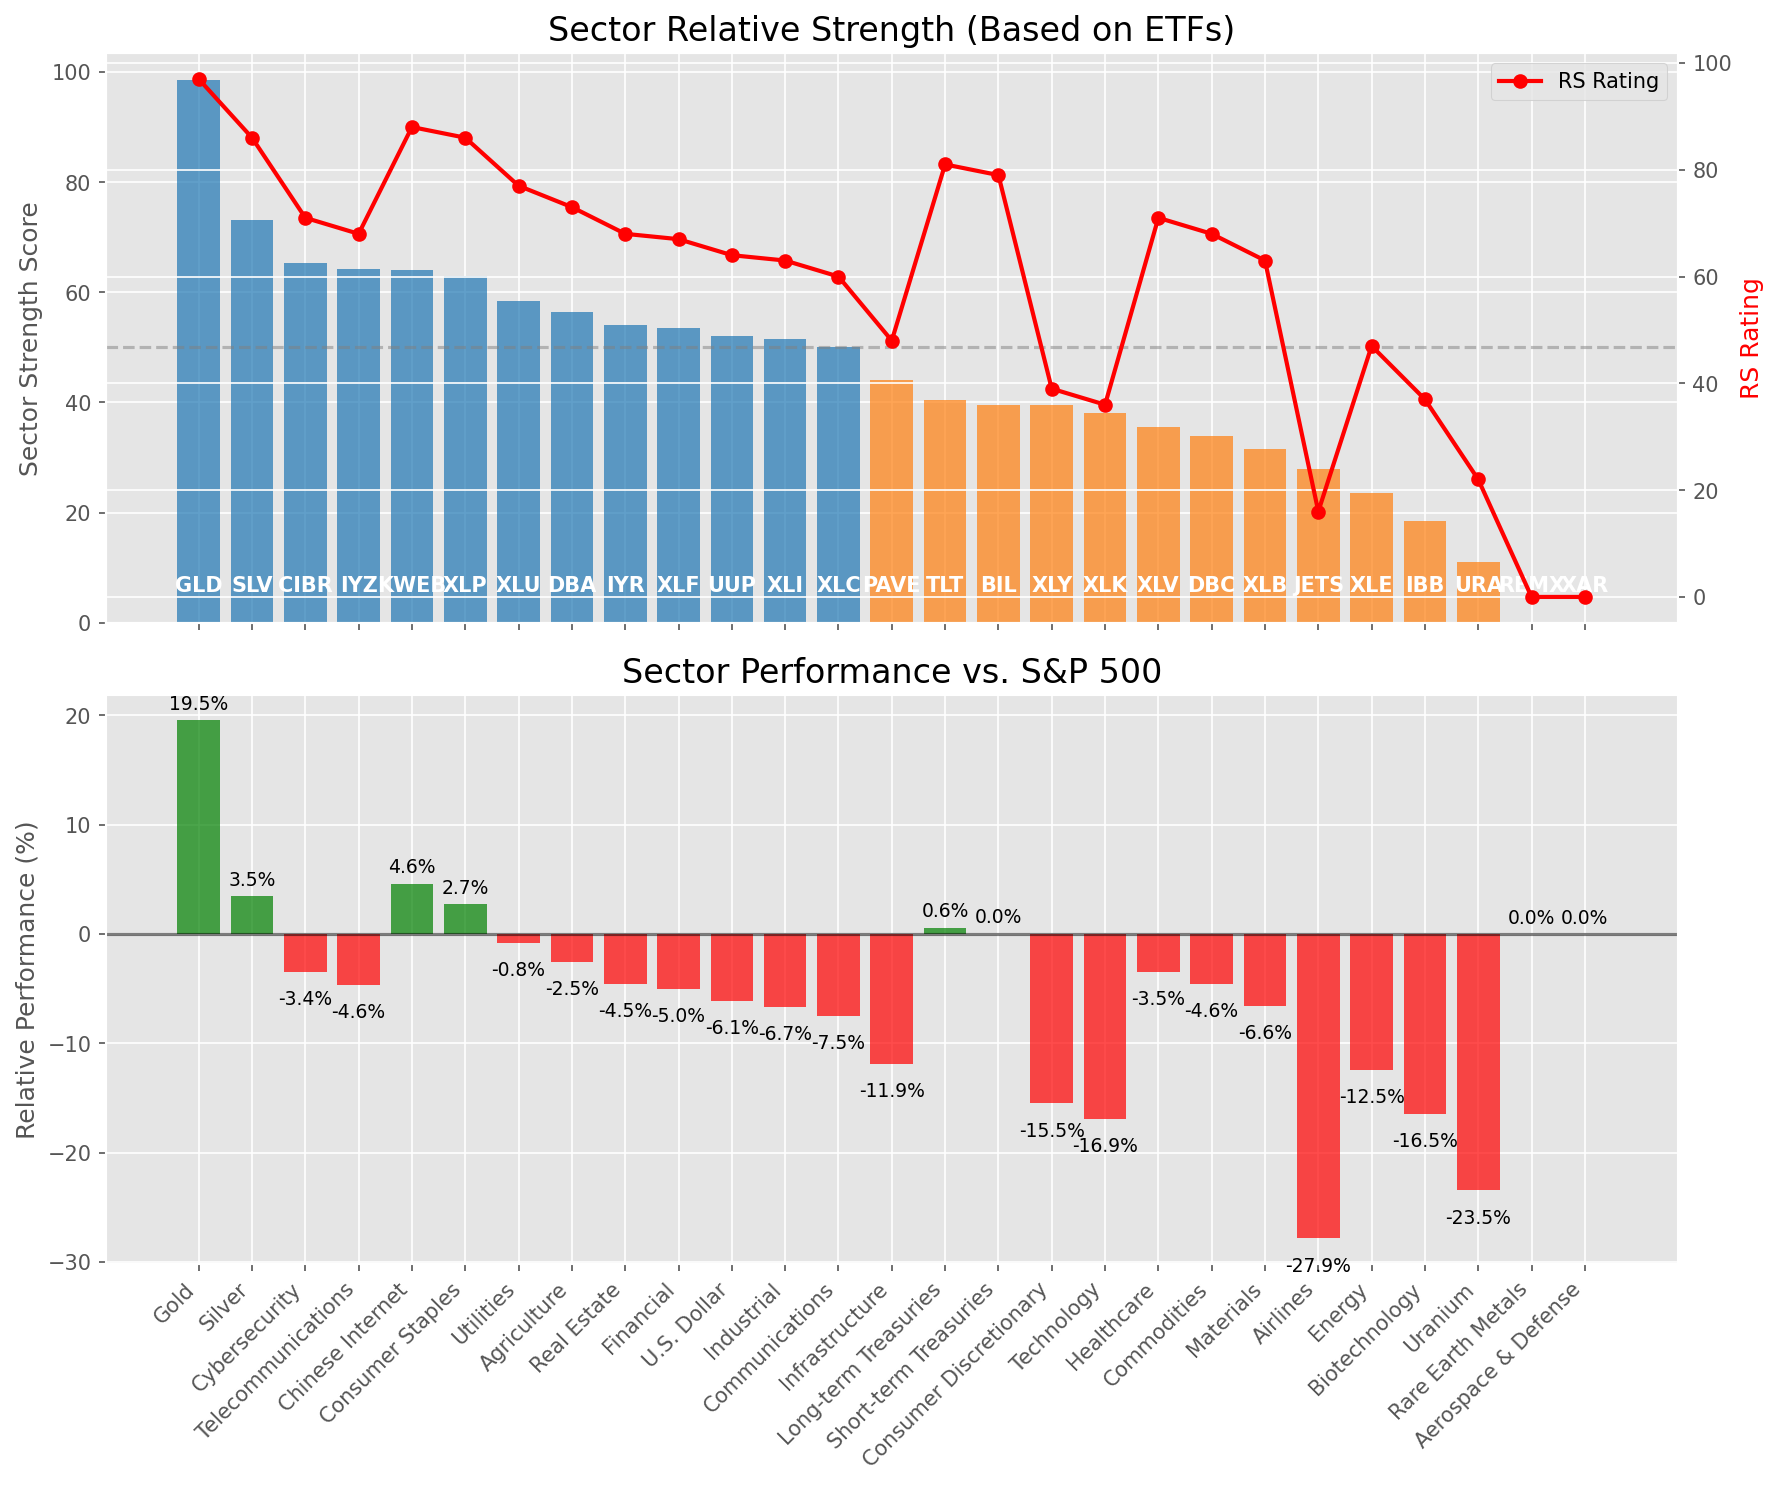
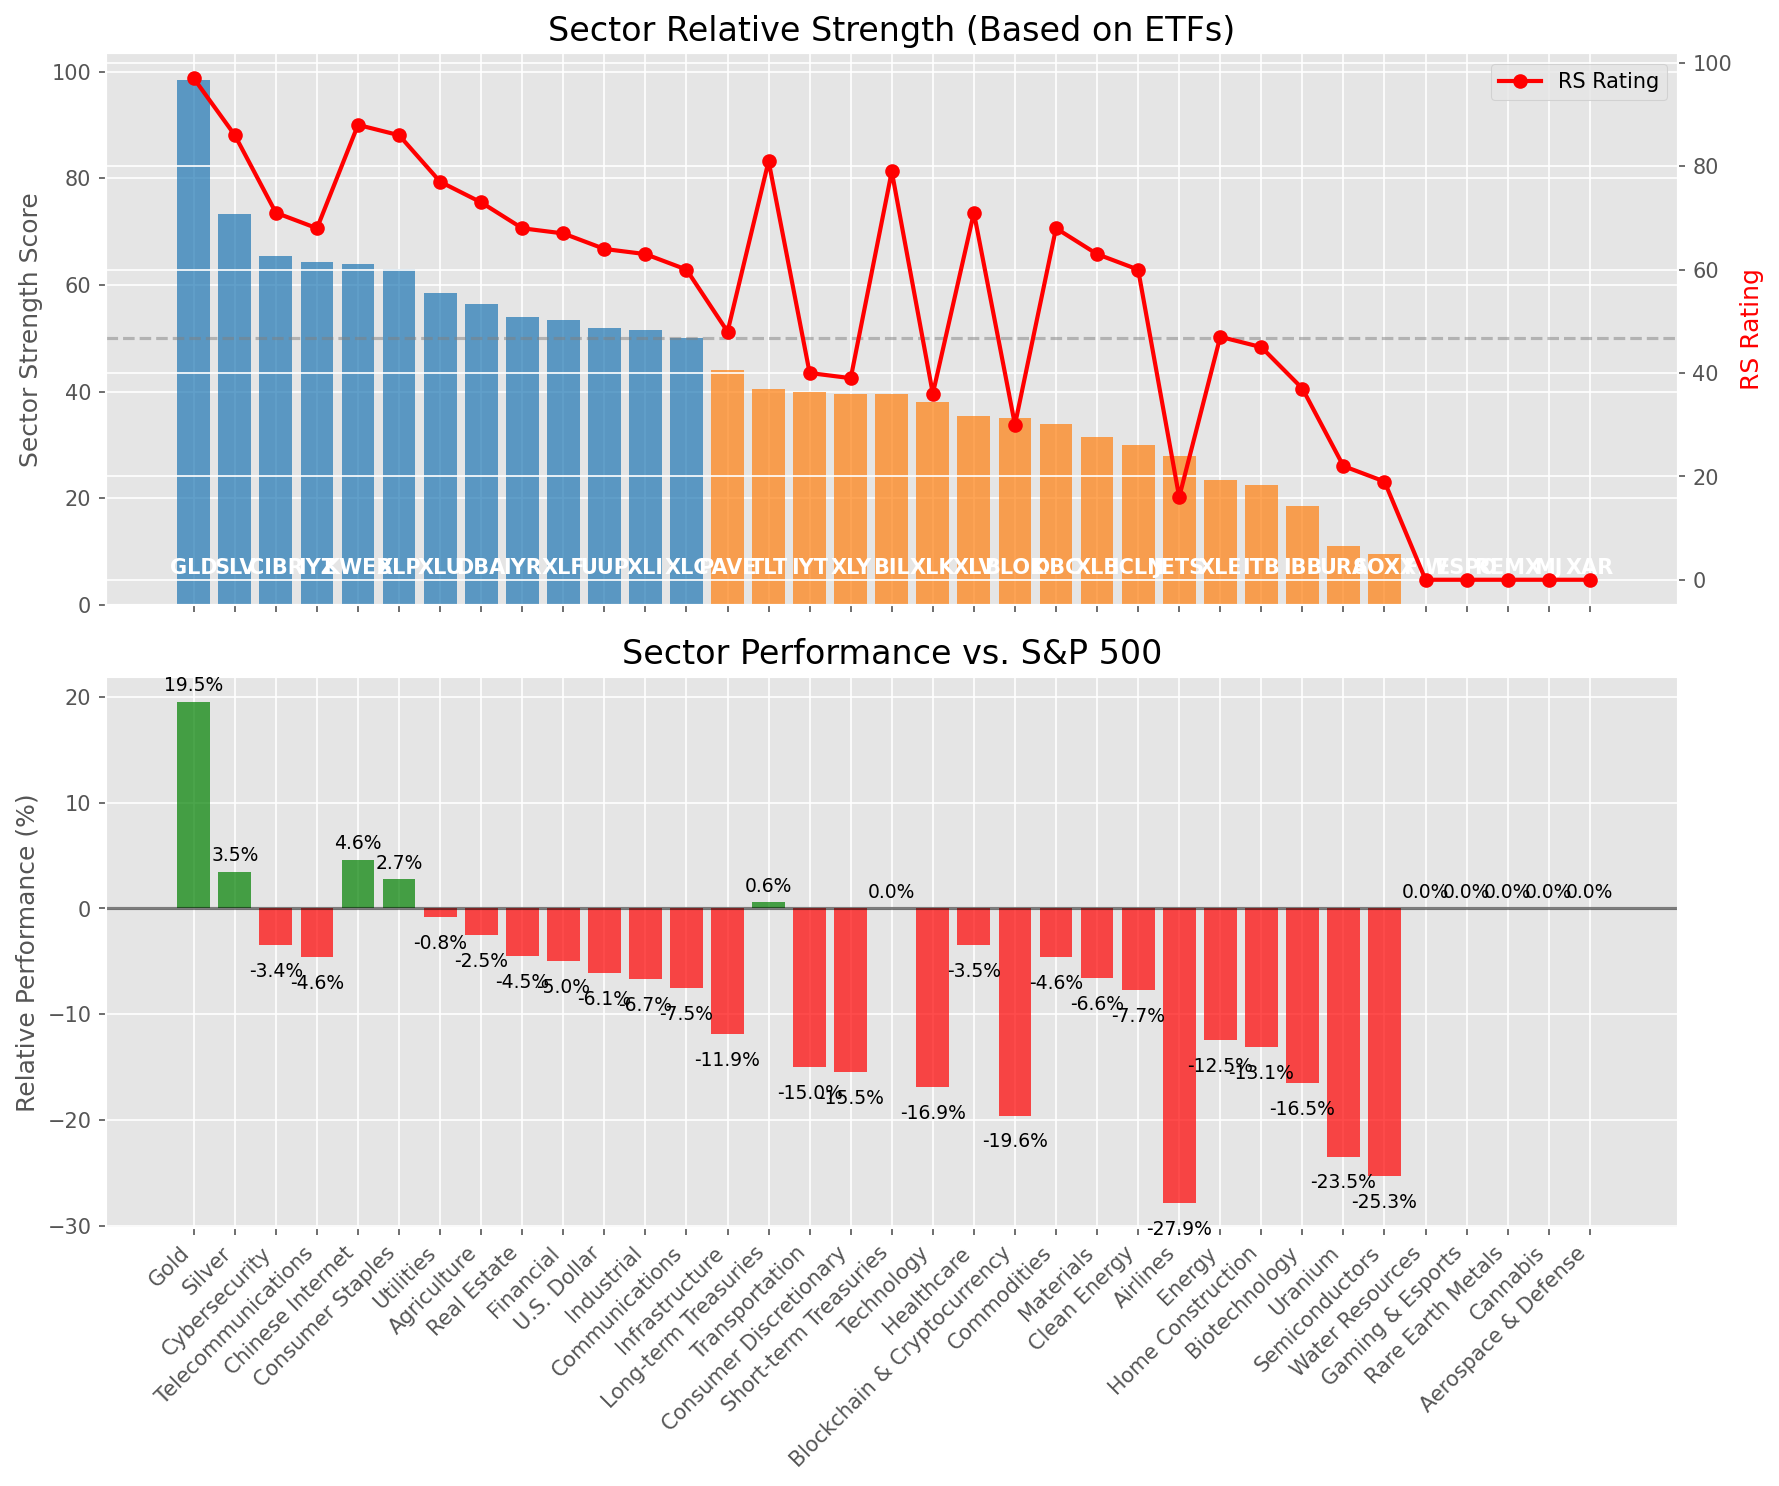
Add market report for 2025-04-11

diff --git a/oneil_relative_strength_report_2025-04-11.md b/oneil_relative_strength_report_2025-04-11.md
@@ -64,17 +64,25 @@ Based on William O'Neil's Relative Strength Methodology
 | [XLC](https://www.tradingview.com/chart/?symbol=XLC) | 50.0 | 60.0 | -7.50% | 10d ✗, 50d ✗, 200d ✗ | ↗ | Communications |
 | [PAVE](https://www.tradingview.com/chart/?symbol=PAVE) | 44.0 | 48.0 | -11.87% | 10d ✗, 50d ✗, 200d ✗ | ↗ | Infrastructure |
 | [TLT](https://www.tradingview.com/chart/?symbol=TLT) | 40.5 | 81.0 | 0.58% | 10d ✗, 50d ✗, 200d ✗ | ↘ | Long-term Treasuries |
-| [BIL](https://www.tradingview.com/chart/?symbol=BIL) | 39.5 | 79.0 | 0.03% | 10d ✗, 50d ✗, 200d ✗ | ↘ | Short-term Treasuries |
+| [IYT](https://www.tradingview.com/chart/?symbol=IYT) | 40.0 | 40.0 | -15.05% | 10d ✗, 50d ✗, 200d ✗ | ↗ | Transportation |
 | [XLY](https://www.tradingview.com/chart/?symbol=XLY) | 39.5 | 39.0 | -15.50% | 10d ✗, 50d ✗, 200d ✗ | ↗ | Consumer Discretionary |
+| [BIL](https://www.tradingview.com/chart/?symbol=BIL) | 39.5 | 79.0 | 0.03% | 10d ✗, 50d ✗, 200d ✗ | ↘ | Short-term Treasuries |
 | [XLK](https://www.tradingview.com/chart/?symbol=XLK) | 38.0 | 36.0 | -16.92% | 10d ✗, 50d ✗, 200d ✗ | ↗ | Technology |
 | [XLV](https://www.tradingview.com/chart/?symbol=XLV) | 35.5 | 71.0 | -3.45% | 10d ✗, 50d ✗, 200d ✗ | ↘ | Healthcare |
+| [BLOK](https://www.tradingview.com/chart/?symbol=BLOK) | 35.0 | 30.0 | -19.59% | 10d ✗, 50d ✗, 200d ✗ | ↗ | Blockchain & Cryptocurrency |
 | [DBC](https://www.tradingview.com/chart/?symbol=DBC) | 34.0 | 68.0 | -4.58% | 10d ✗, 50d ✗, 200d ✗ | ↘ | Commodities |
 | [XLB](https://www.tradingview.com/chart/?symbol=XLB) | 31.5 | 63.0 | -6.59% | 10d ✗, 50d ✗, 200d ✗ | ↘ | Materials |
+| [ICLN](https://www.tradingview.com/chart/?symbol=ICLN) | 30.0 | 60.0 | -7.70% | 10d ✗, 50d ✗, 200d ✗ | ↘ | Clean Energy |
 | [JETS](https://www.tradingview.com/chart/?symbol=JETS) | 28.0 | 16.0 | -27.86% | 10d ✗, 50d ✗, 200d ✗ | ↗ | Airlines |
 | [XLE](https://www.tradingview.com/chart/?symbol=XLE) | 23.5 | 47.0 | -12.46% | 10d ✗, 50d ✗, 200d ✗ | ↘ | Energy |
+| [ITB](https://www.tradingview.com/chart/?symbol=ITB) | 22.5 | 45.0 | -13.08% | 10d ✗, 50d ✗, 200d ✗ | ↘ | Home Construction |
 | [IBB](https://www.tradingview.com/chart/?symbol=IBB) | 18.5 | 37.0 | -16.48% | 10d ✗, 50d ✗, 200d ✗ | ↘ | Biotechnology |
 | [URA](https://www.tradingview.com/chart/?symbol=URA) | 11.0 | 22.0 | -23.47% | 10d ✗, 50d ✗, 200d ✗ | ↘ | Uranium |
+| [SOXX](https://www.tradingview.com/chart/?symbol=SOXX) | 9.5 | 19.0 | -25.32% | 10d ✗, 50d ✗, 200d ✗ | ↘ | Semiconductors |
+| [FIW](https://www.tradingview.com/chart/?symbol=FIW) | 0.0 | 0.0 | 0.00% | 10d ✗, 50d ✗, 200d ✗ | ↘ | Water Resources |
+| [ESPO](https://www.tradingview.com/chart/?symbol=ESPO) | 0.0 | 0.0 | 0.00% | 10d ✗, 50d ✗, 200d ✗ | ↘ | Gaming & Esports |
 | [REMX](https://www.tradingview.com/chart/?symbol=REMX) | 0.0 | 0.0 | 0.00% | 10d ✗, 50d ✗, 200d ✗ | ↘ | Rare Earth Metals |
+| [MJ](https://www.tradingview.com/chart/?symbol=MJ) | 0.0 | 0.0 | 0.00% | 10d ✗, 50d ✗, 200d ✗ | ↘ | Cannabis |
 | [XAR](https://www.tradingview.com/chart/?symbol=XAR) | 0.0 | 0.0 | 0.00% | 10d ✗, 50d ✗, 200d ✗ | ↘ | Aerospace & Defense |
 
 ### **Sector ETF Performance Interpretation**
@@ -106,35 +114,35 @@ The following 44 stocks show exceptional relative strength:
 | 100 | 100 | $131.04 | [Chart](https://www.tradingview.com/chart/?symbol=UGL) | ProShares Ultra Gold | UGL |
 | 100 | 100 | $27.97 | [Chart](https://www.tradingview.com/chart/?symbol=AGI) | Alamos Gold Inc. Class A Common Shares | AGI |
 | 99 | 100 | $142.99 | [Chart](https://www.tradingview.com/chart/?symbol=PLMR) | Palomar Holdings, Inc. Common stock | PLMR |
-| 99 | 100 | $117.30 | [Chart](https://www.tradingview.com/chart/?symbol=BJ) | BJs Wholesale Club Holdings, Inc. Common Stock | BJ |
-| 99 | 100 | $170.97 | [Chart](https://www.tradingview.com/chart/?symbol=RGLD) | Royal Gold Inc | RGLD |
-| 99 | 100 | $15.49 | [Chart](https://www.tradingview.com/chart/?symbol=EZPW) | Ezcorp Inc | EZPW |
-| 99 | 100 | $77.90 | [Chart](https://www.tradingview.com/chart/?symbol=WPM) | Wheaton Precious Metals Corp. Common Stock | WPM |
-| 99 | 100 | $18.49 | [Chart](https://www.tradingview.com/chart/?symbol=SWI) | SolarWinds Corporation Common Stock | SWI |
 | 99 | 100 | $58.23 | [Chart](https://www.tradingview.com/chart/?symbol=GDXJ) | VanEck Junior Gold Miners ETF | GDXJ |
+| 99 | 100 | $170.97 | [Chart](https://www.tradingview.com/chart/?symbol=RGLD) | Royal Gold Inc | RGLD |
+| 99 | 100 | $18.49 | [Chart](https://www.tradingview.com/chart/?symbol=SWI) | SolarWinds Corporation Common Stock | SWI |
+| 99 | 100 | $117.30 | [Chart](https://www.tradingview.com/chart/?symbol=BJ) | BJs Wholesale Club Holdings, Inc. Common Stock | BJ |
+| 99 | 100 | $77.90 | [Chart](https://www.tradingview.com/chart/?symbol=WPM) | Wheaton Precious Metals Corp. Common Stock | WPM |
+| 99 | 100 | $15.49 | [Chart](https://www.tradingview.com/chart/?symbol=EZPW) | Ezcorp Inc | EZPW |
 | 98 | 100 | $22.02 | [Chart](https://www.tradingview.com/chart/?symbol=SRAD) | Sportradar Group AG Class A Ordinary Shares | SRAD |
-| 97 | 100 | $21.81 | [Chart](https://www.tradingview.com/chart/?symbol=OR) | Osisko Gold Royalties Ltd | OR |
-| 97 | 100 | $62.80 | [Chart](https://www.tradingview.com/chart/?symbol=GLDM) | SPDR Gold MiniShares | GLDM |
-| 97 | 100 | $30.26 | [Chart](https://www.tradingview.com/chart/?symbol=SGOL) | abrdn Physical Gold Shares ETF | SGOL |
-| 97 | 100 | $31.32 | [Chart](https://www.tradingview.com/chart/?symbol=AAAU) | Goldman Sachs Physical Gold ETF Shares | AAAU |
-| 97 | 100 | $24.32 | [Chart](https://www.tradingview.com/chart/?symbol=PHYS) | Sprott Physical Gold Trust | PHYS |
-| 97 | 100 | $30.55 | [Chart](https://www.tradingview.com/chart/?symbol=OUNZ) | VanEck Merk Gold ETF | OUNZ |
-| 97 | 100 | $292.35 | [Chart](https://www.tradingview.com/chart/?symbol=GLD) | SPDR Gold Trust, SPDR Gold Shares | GLD |
 | 97 | 100 | $59.81 | [Chart](https://www.tradingview.com/chart/?symbol=IAU) | iShares Gold Trust | IAU |
+| 97 | 100 | $24.32 | [Chart](https://www.tradingview.com/chart/?symbol=PHYS) | Sprott Physical Gold Trust | PHYS |
+| 97 | 100 | $240.23 | [Chart](https://www.tradingview.com/chart/?symbol=RSG) | Republic Services Inc. | RSG |
 | 97 | 100 | $31.26 | [Chart](https://www.tradingview.com/chart/?symbol=BAR) | GraniteShares Gold Shares | BAR |
 | 97 | 100 | $31.63 | [Chart](https://www.tradingview.com/chart/?symbol=IAUM) | iShares Gold Trust Micro | IAUM |
-| 97 | 100 | $240.23 | [Chart](https://www.tradingview.com/chart/?symbol=RSG) | Republic Services Inc. | RSG |
+| 97 | 100 | $30.26 | [Chart](https://www.tradingview.com/chart/?symbol=SGOL) | abrdn Physical Gold Shares ETF | SGOL |
+| 97 | 100 | $30.55 | [Chart](https://www.tradingview.com/chart/?symbol=OUNZ) | VanEck Merk Gold ETF | OUNZ |
+| 97 | 100 | $31.32 | [Chart](https://www.tradingview.com/chart/?symbol=AAAU) | Goldman Sachs Physical Gold ETF Shares | AAAU |
+| 97 | 100 | $21.81 | [Chart](https://www.tradingview.com/chart/?symbol=OR) | Osisko Gold Royalties Ltd | OR |
+| 97 | 100 | $292.35 | [Chart](https://www.tradingview.com/chart/?symbol=GLD) | SPDR Gold Trust, SPDR Gold Shares | GLD |
+| 97 | 100 | $62.80 | [Chart](https://www.tradingview.com/chart/?symbol=GLDM) | SPDR Gold MiniShares | GLDM |
 | 96 | 100 | $37.48 | [Chart](https://www.tradingview.com/chart/?symbol=MRX) | Marex Group plc Ordinary Shares | MRX |
-| 95 | 100 | $67.90 | [Chart](https://www.tradingview.com/chart/?symbol=KR) | The Kroger Co. | KR |
 | 95 | 100 | $27.97 | [Chart](https://www.tradingview.com/chart/?symbol=CEF) | Sprott Physical Gold and Silver Trust | CEF |
 | 95 | 100 | $52.15 | [Chart](https://www.tradingview.com/chart/?symbol=SKWD) | Skyward Specialty Insurance Group, Inc. Common Stock | SKWD |
+| 95 | 100 | $67.90 | [Chart](https://www.tradingview.com/chart/?symbol=KR) | The Kroger Co. | KR |
 | 94 | 100 | $102.13 | [Chart](https://www.tradingview.com/chart/?symbol=EHC) | Encompass Health Corporation Common Stock | EHC |
 | 94 | 100 | $273.18 | [Chart](https://www.tradingview.com/chart/?symbol=PGR) | Progressive Corporation | PGR |
 | 94 | 100 | $438.01 | [Chart](https://www.tradingview.com/chart/?symbol=CASY) | Casey's General Stores Inc | CASY |
-| 93 | 100 | $153.92 | [Chart](https://www.tradingview.com/chart/?symbol=SFM) | Sprouts Farmers Market, Inc. | SFM |
+| 93 | 100 | $102.78 | [Chart](https://www.tradingview.com/chart/?symbol=ATGE) | Adtalem Global Education Inc. Common Shares | ATGE |
 | 93 | 100 | $40.55 | [Chart](https://www.tradingview.com/chart/?symbol=BTI) | British American Tobacco p.l.c. American Depositary Shares, American Depositary Shares, each representing one Ordinary Share | BTI |
 | 93 | 100 | $31.71 | [Chart](https://www.tradingview.com/chart/?symbol=KTOS) | Kratos Defense & Security Solutions, Inc. | KTOS |
-| 93 | 100 | $102.78 | [Chart](https://www.tradingview.com/chart/?symbol=ATGE) | Adtalem Global Education Inc. Common Shares | ATGE |
+| 93 | 100 | $153.92 | [Chart](https://www.tradingview.com/chart/?symbol=SFM) | Sprouts Farmers Market, Inc. | SFM |
 | 92 | 100 | $113.25 | [Chart](https://www.tradingview.com/chart/?symbol=OLLI) | Ollie's Bargain Outlet Holdings, Inc. Common Stock | OLLI |
 | 92 | 100 | $47.50 | [Chart](https://www.tradingview.com/chart/?symbol=GFL) | GFL Environmental Inc. Subordinate Voting Shares | GFL |
 | 91 | 100 | $114.00 | [Chart](https://www.tradingview.com/chart/?symbol=CWST) | Casella Waste Systems Inc | CWST |
